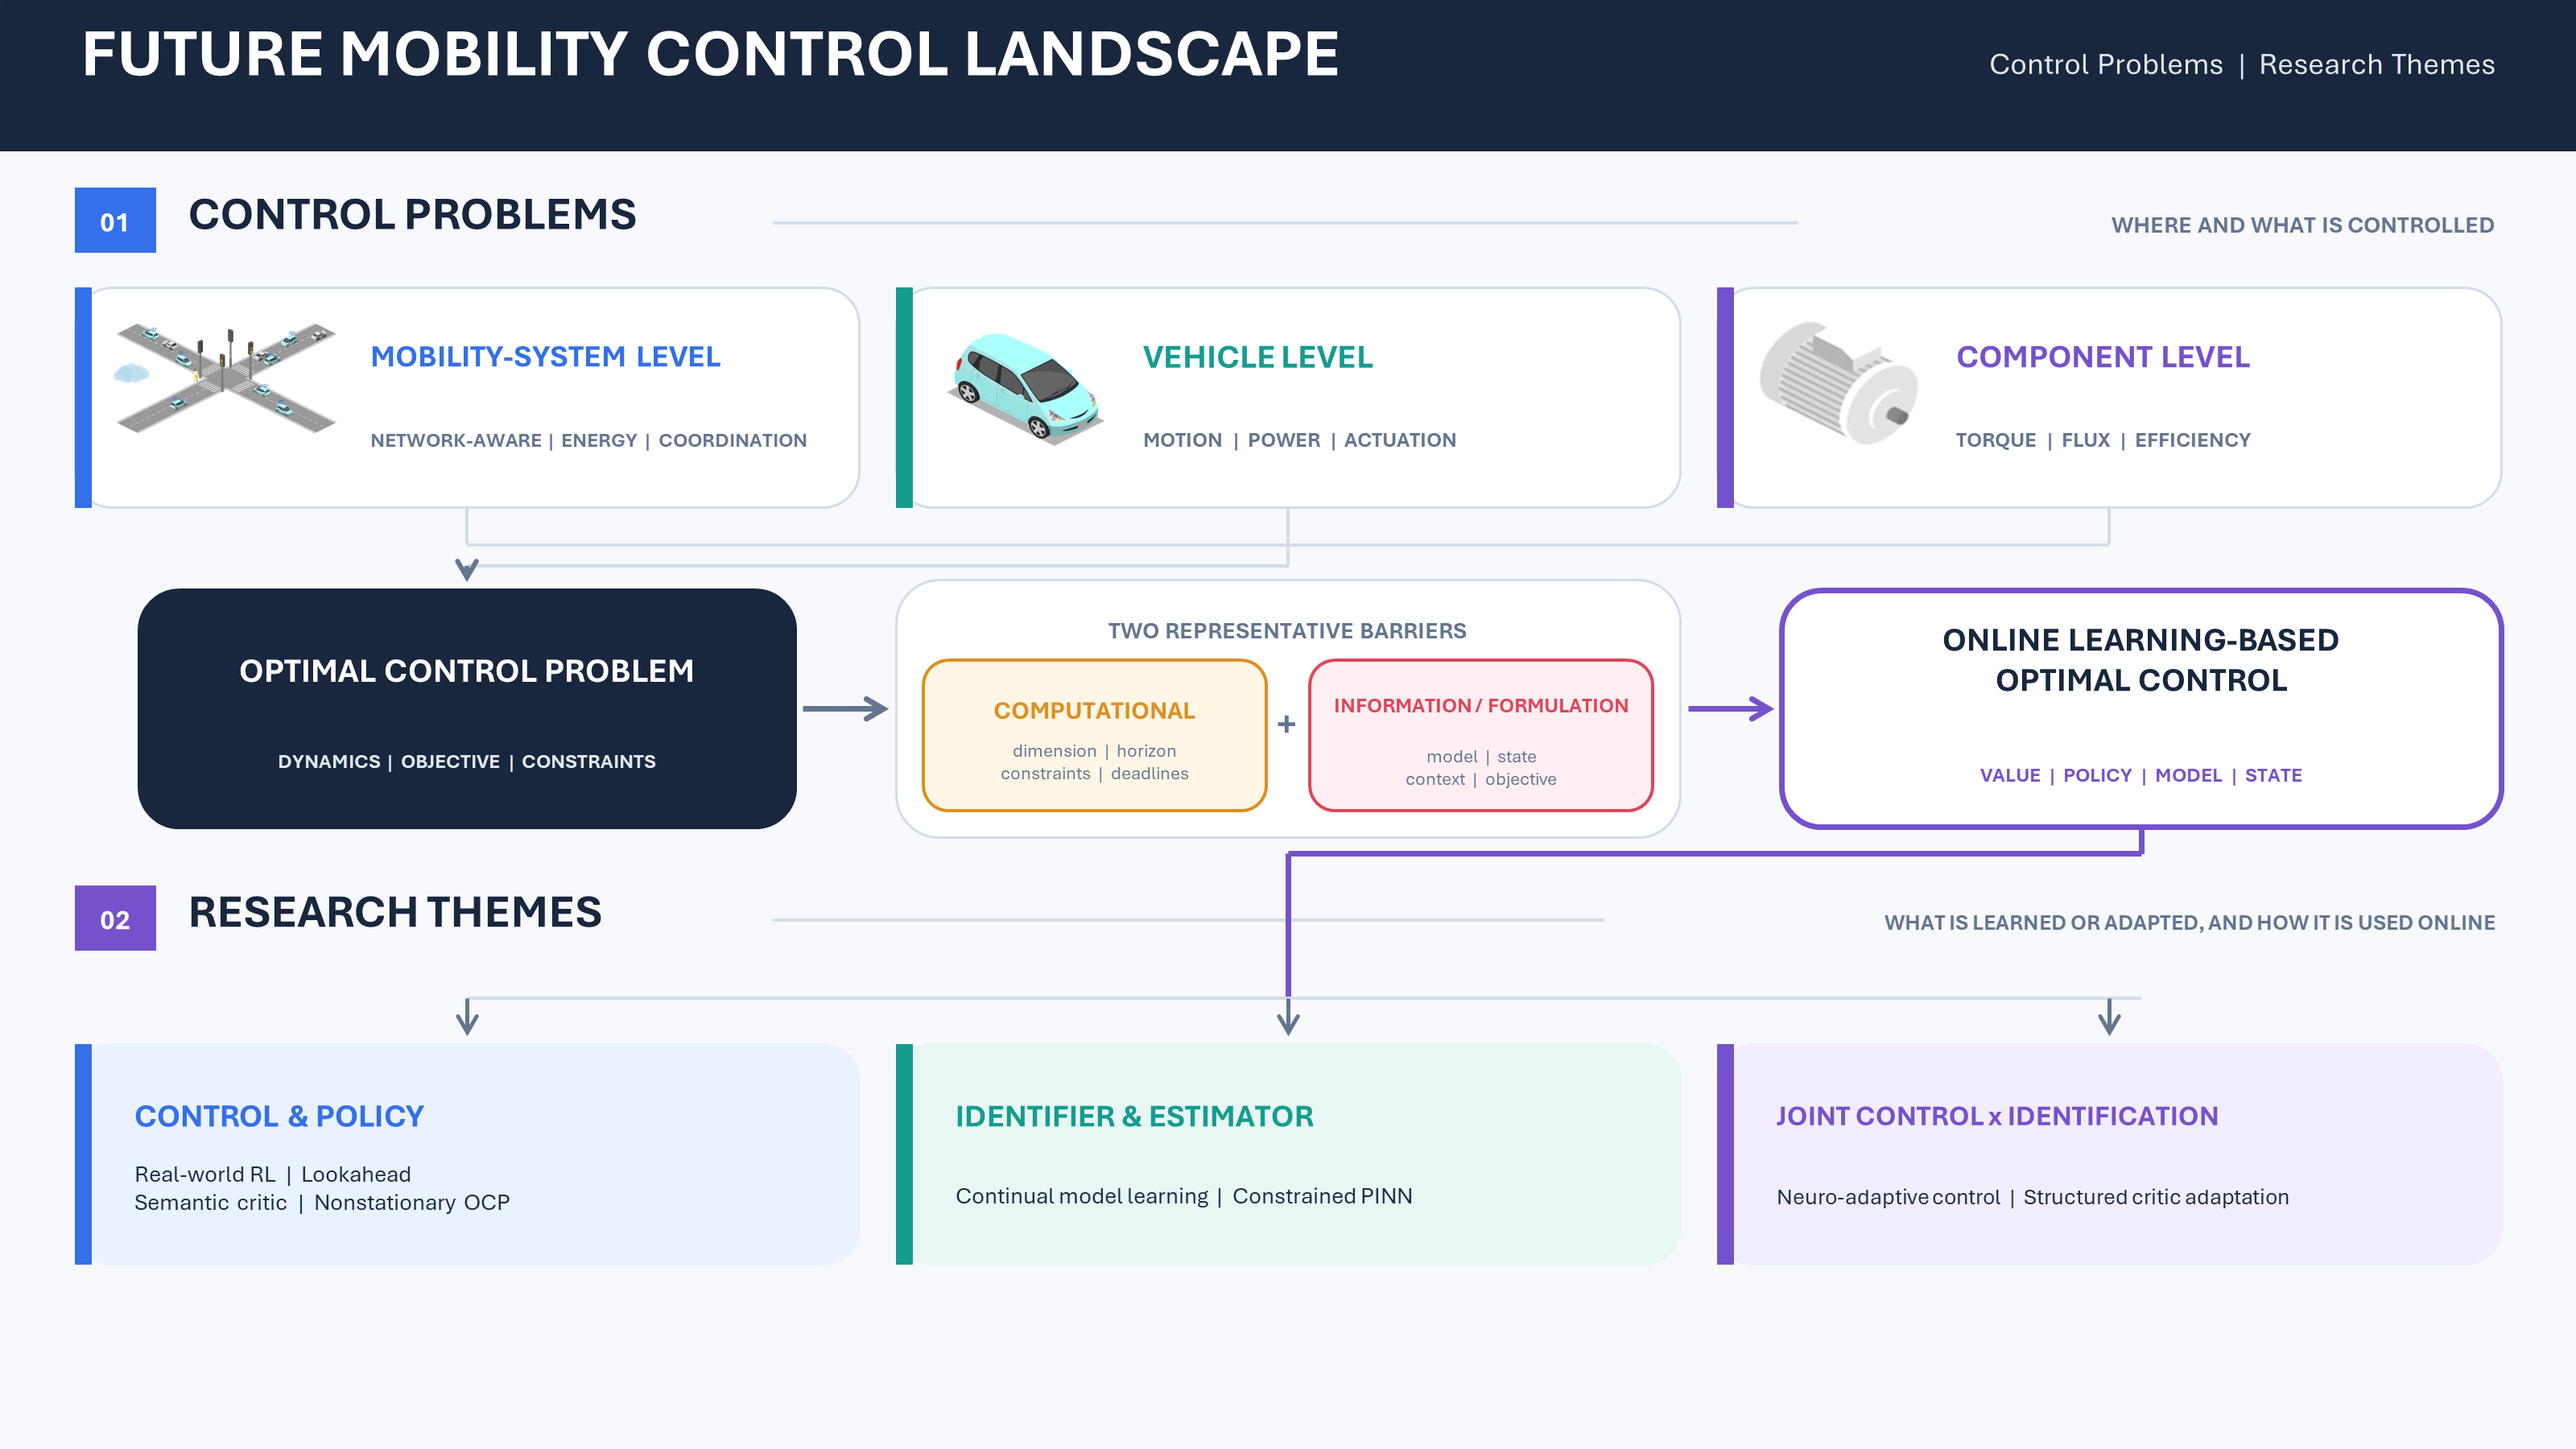
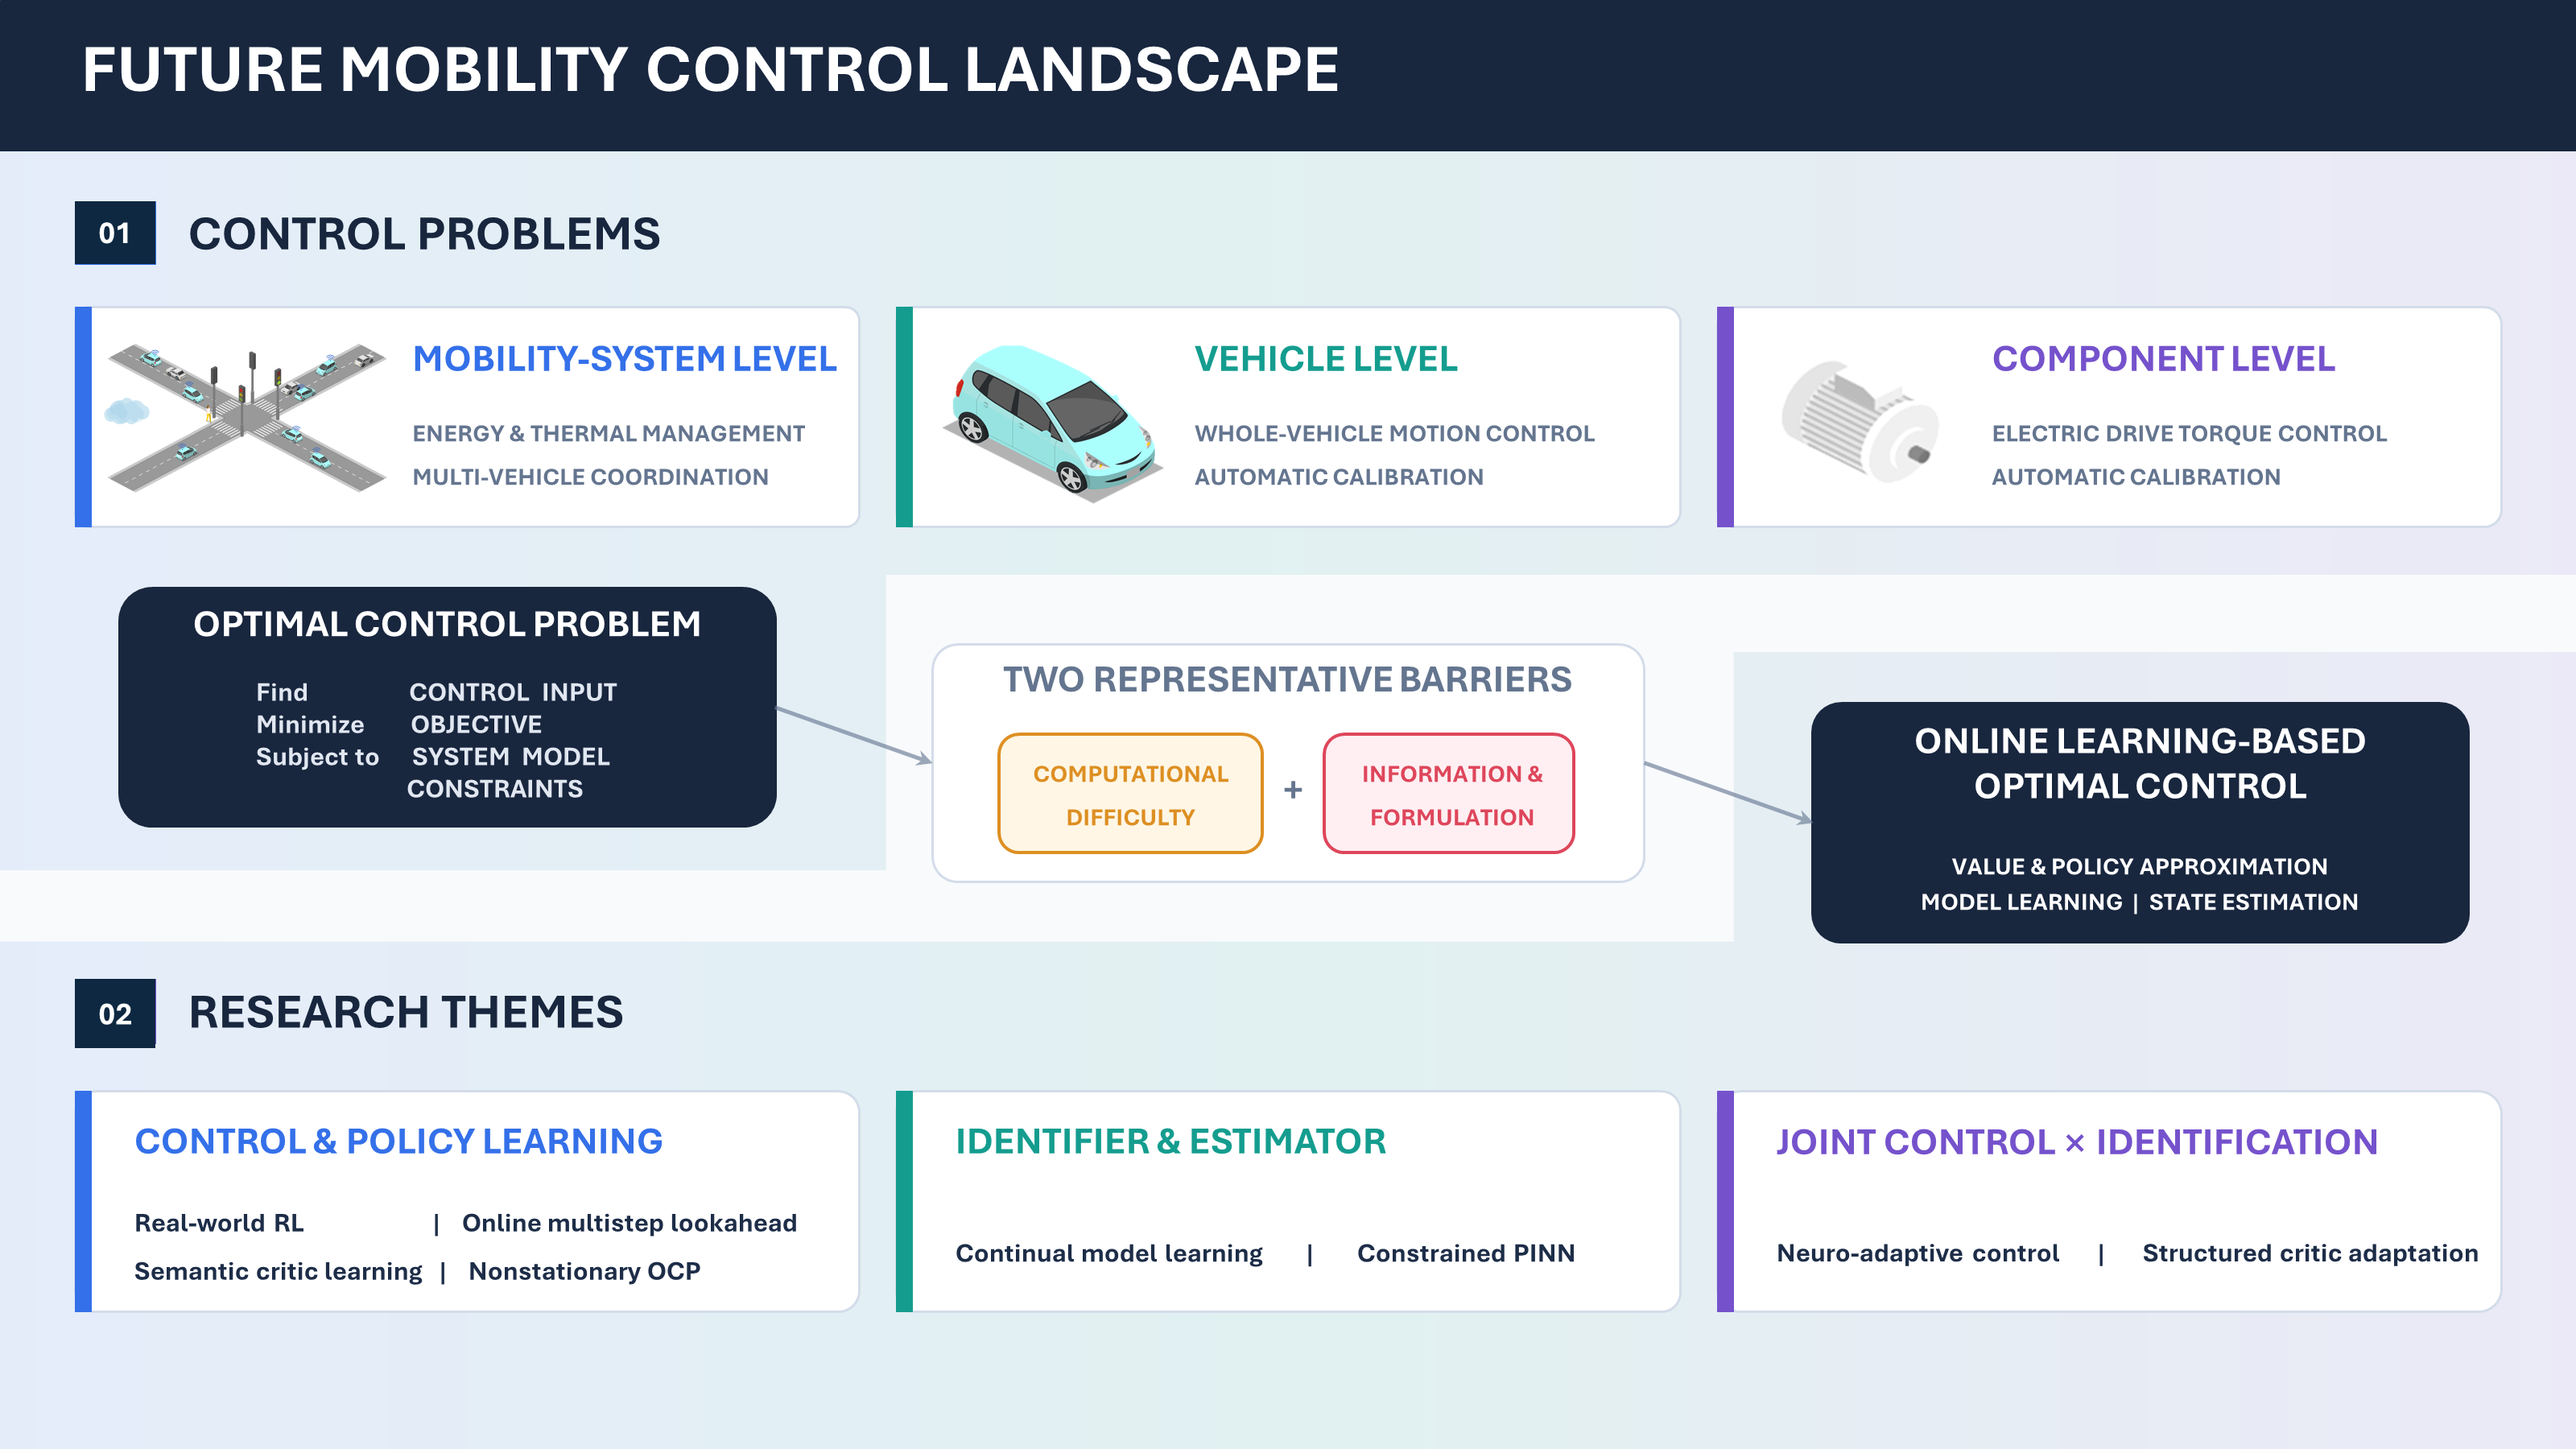
4 images replaced; core-idea and image captions removed

diff --git a/research/research_themes/00_online_learning_based_optimal_control.md b/research/research_themes/00_online_learning_based_optimal_control.md
@@ -11,17 +11,8 @@ math: true
 
 # Online Learning-Based Optimal Control
 
-> **Core idea.** MIC Lab starts from one optimal-control problem. Bellman
-> optimality gives the exact decision principle. Learning makes that principle
-> implementable when exact computation, the dynamics, or the physical state is
-> unavailable.
-
 <figure style="margin: 0; text-align: center;">
   <img class="img-fluid" src="/research/research_themes/assets/00_online_learning_based_optimal_control.png" alt="MIC Lab learning-based control research themes: a common online learning-based optimal-control framework surrounded by eight research themes." style="width: 95%; height: auto;">
-  <figcaption>
-    MIC Lab learning-based control research themes: 
-    a common online learning-based optimal-control framework surrounded by eight research themes
-  </figcaption>
 </figure>
 
 *MIC Lab Learning-Based Control Research Themes. The center presents the
@@ -370,7 +361,7 @@ sequence.
 The two paths can also be coupled so that learning about uncertainty directly
 changes the control object.
 
-- **[Neuro-Adaptive Control](/research/research_themes/07_neuro_adaptive_control):** instead of first
+- **[Neuro-Adaptive Control](../../../static/research/07_neuro_adaptive_control.pdf):** instead of first
   producing a reusable model, a neural policy approximates the uncertain
   ideal feedback law:
 
@@ -430,7 +421,7 @@ changes the control object.
 | **[Nonstationary Infinite-Horizon OCP](/research/research_themes/04_nonstationary_infinite_horizon_ocp)** | context-augmented reference problem | recover a time-homogeneous Bellman formulation when sufficient context exists |
 | **[Continual Model Learning](/research/research_themes/05_continual_model_learning)** | dynamics model and, when needed, state trajectory | fit new operating information while retaining prior control-relevant model behavior |
 | **[Constrained PINN](/research/research_themes/06_constrained_pinn)** | physics field or model and dual variables | represent selected physical requirements as explicit learning constraints |
-| **[Neuro-Adaptive Control](/research/research_themes/07_neuro_adaptive_control)** | policy parameter | adapt an uncertain ideal feedback-law approximation directly from closed-loop signals |
+| **[Neuro-Adaptive Control](../../../static/research/07_neuro_adaptive_control.pdf)** | policy parameter | adapt an uncertain ideal feedback-law approximation directly from closed-loop signals |
 | **[Structured Critic Adaptation](/research/research_themes/08_structured_critic_adaptation)** | environment estimate and critic configuration | reuse a critic family by identifying a compact condition rather than relearning the full critic |
 
 These Themes are not pairwise opposites. They identify dominant mechanisms

diff --git a/research/control_problems/00_future_mobility_control_landscape.md b/research/control_problems/00_future_mobility_control_landscape.md
@@ -10,20 +10,8 @@ group: research
 
 # Future Mobility Control Landscape
 
-> **Core idea.** Connected, automated, and electrified vehicles expand the
-> information and decision scope of mobility control while adding coupled
-> control and actuation degrees of freedom (DOFs) at mobility-system, vehicle,
-> and component levels. Realizing this performance potential is naturally
-> formulated as an optimal-control problem, but computational and information
-> limitations often prevent its direct implementation. These shared barriers
-> motivate learning-based optimal control.
-
 <figure style="margin: 0; text-align: center;">
   <img class="img-fluid" src="/research/control_problems/assets/future_mobility_control_landscape.png" alt="qFit" style="width: 95%; height: auto;">
-  <figcaption>
-    Future-mobility Control Problems at three levels lead through two representative barriers 
-    and online learning-based optimal control to the MIC Lab Research Themes.
-  </figcaption>
 </figure>
 
 *The two main axes organize where and what is controlled (Control Problems)

diff --git a/research/control_problems/03_component_level_optimal_control.md b/research/control_problems/03_component_level_optimal_control.md
@@ -11,19 +11,8 @@ math: true
 
 # Component-Level Optimal Control
 
-> **Core idea.** Component-level optimal control converts a torque command
-> into fast voltage or inverter-switching decisions while minimizing drive
-> loss or another performance index and satisfying current and voltage limits.
-> Automatic calibration is a coupled deployment workflow that seeks to
-> reproduce this behavior across the real electric drive's operating domain
-> under declared verification checks.
-
 <figure style="margin: 0; text-align: center;">
   <img class="img-fluid" src="/research/control_problems/assets/electric_drive_torque_control.png" alt="qFit" style="width: 95%; height: auto;">
-  <figcaption>
-    A torque command is converted into constrained voltage or inverter-switching actions 
-    that shape current and flux to produce torque.
-  </figcaption>
 </figure>
 
 *The component-level controller realizes the requested torque through fast

diff --git a/research/control_problems/02_vehicle_level_optimal_control.md b/research/control_problems/02_vehicle_level_optimal_control.md
@@ -12,19 +12,8 @@ math: true
 
 # Vehicle-Level Optimal Control
 
-> **Core idea.** Vehicle-level optimal control maps driver or automated-driving
-> commands into coordinated propulsion, braking, steering, and suspension
-> actions. Automatic calibration is a coupled deployment workflow that adjusts
-> gains, maps, cost weights, and learned parameters to reproduce the intended
-> agility–stability balance across real operating conditions under declared
-> safety checks.
-
 <figure style="margin: 0; text-align: center;">
   <img class="img-fluid" src="/research/control_problems/assets/vehicle_motion_control.png" alt="qFit" style="width: 95%; height: auto;">
-  <figcaption>
-    A motion command is realized through coordinated drive, brake, steering, and suspension actuation,
-    while measured vehicle response supports automatic calibration.
-  </figcaption>
 </figure>
 
 

diff --git a/research/control_problems/01_mobility_system_level_optimal_control.md b/research/control_problems/01_mobility_system_level_optimal_control.md
@@ -11,18 +11,8 @@ math: true
 
 # Mobility-System-Level Optimal Control
 
-> **Core idea.** Mobility-system-level optimal control uses information and
-> decision couplings beyond the local vehicle boundary. It includes both a
-> single vehicle using traffic-network context for long-horizon operation and
-> multiple vehicles coordinating through shared information.
-
-
 <figure style="margin: 0; text-align: center;">
   <img class="img-fluid" src="/research/control_problems/assets/network_aware_mobility_control.png" alt="qFit" style="width: 95%; height: auto;">
-  <figcaption>
-    Route, traffic, infrastructure, ambient, and vehicle-to-everything (V2X) information 
-    form a mobility-system decision state for energy, thermal, and coordination control.
-  </figcaption>
 </figure>
 
 *The number of controlled vehicles does not define the level by itself. The
